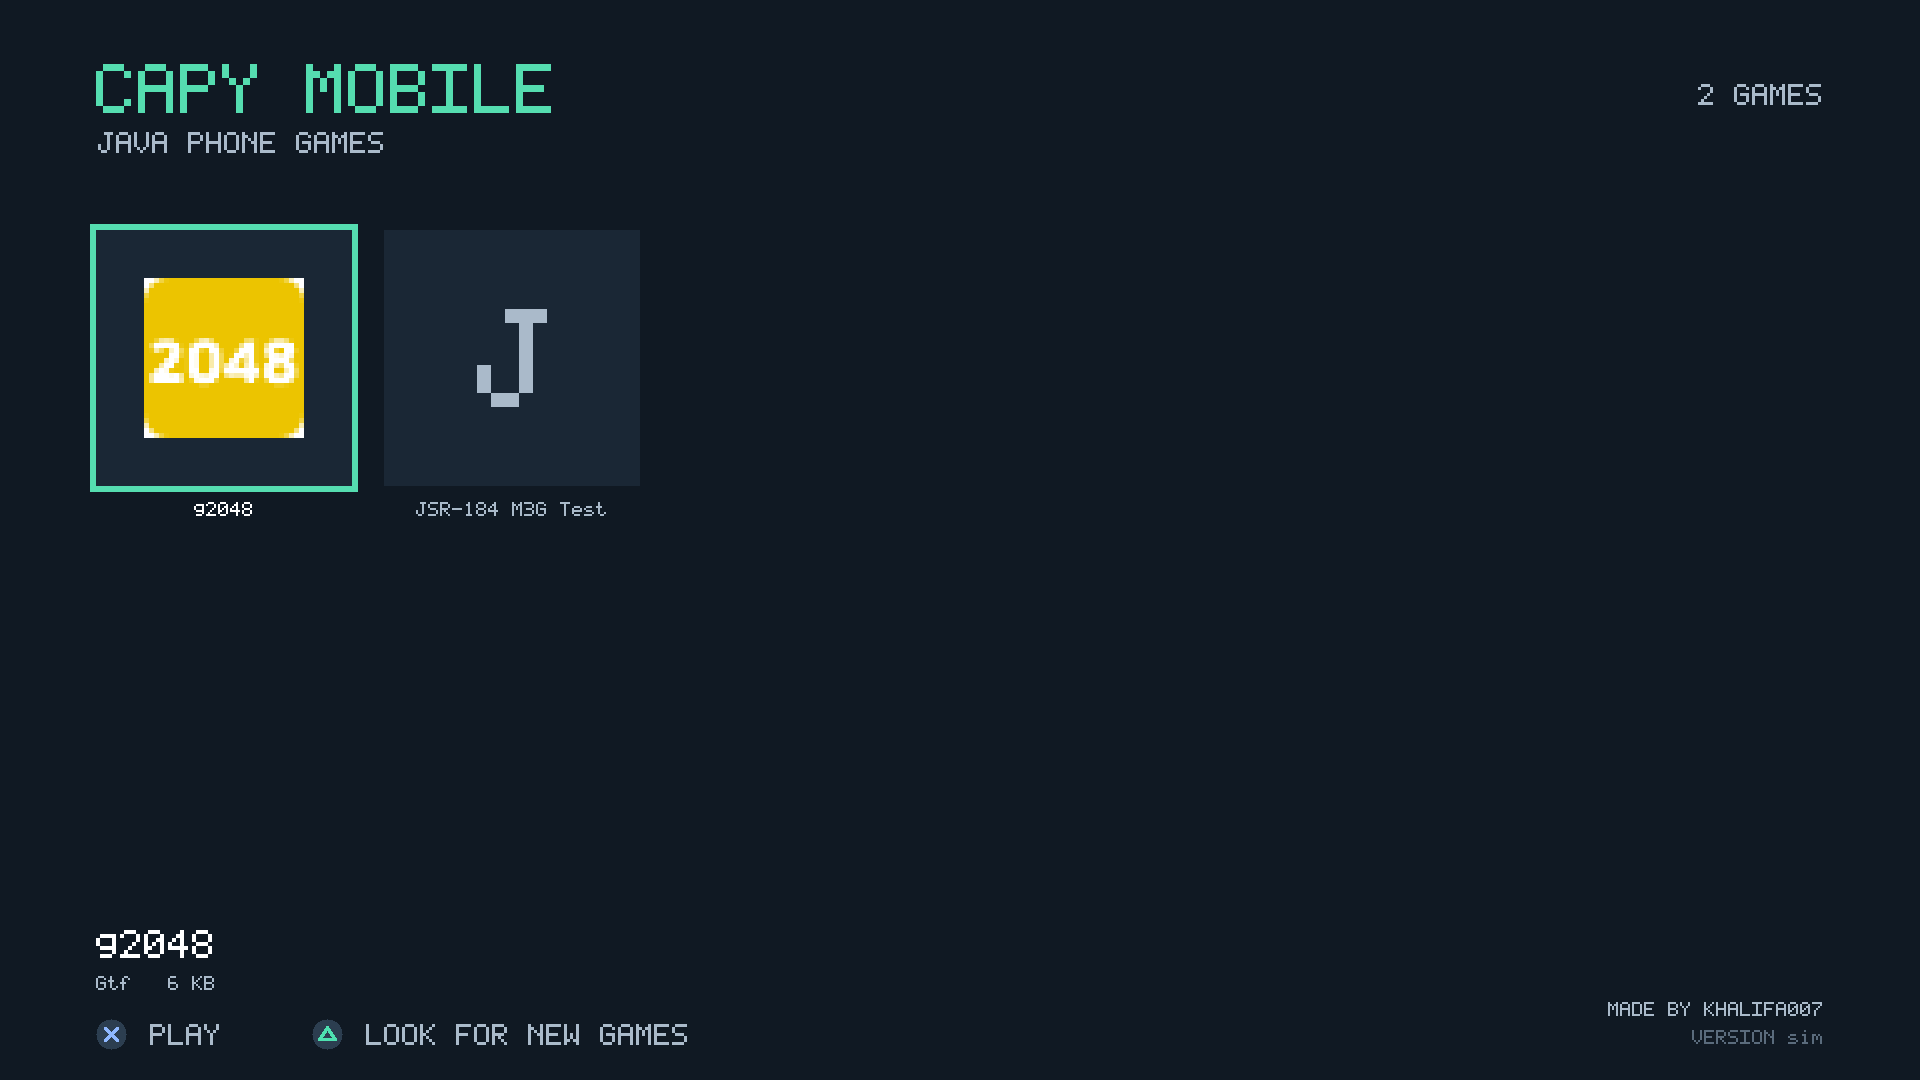
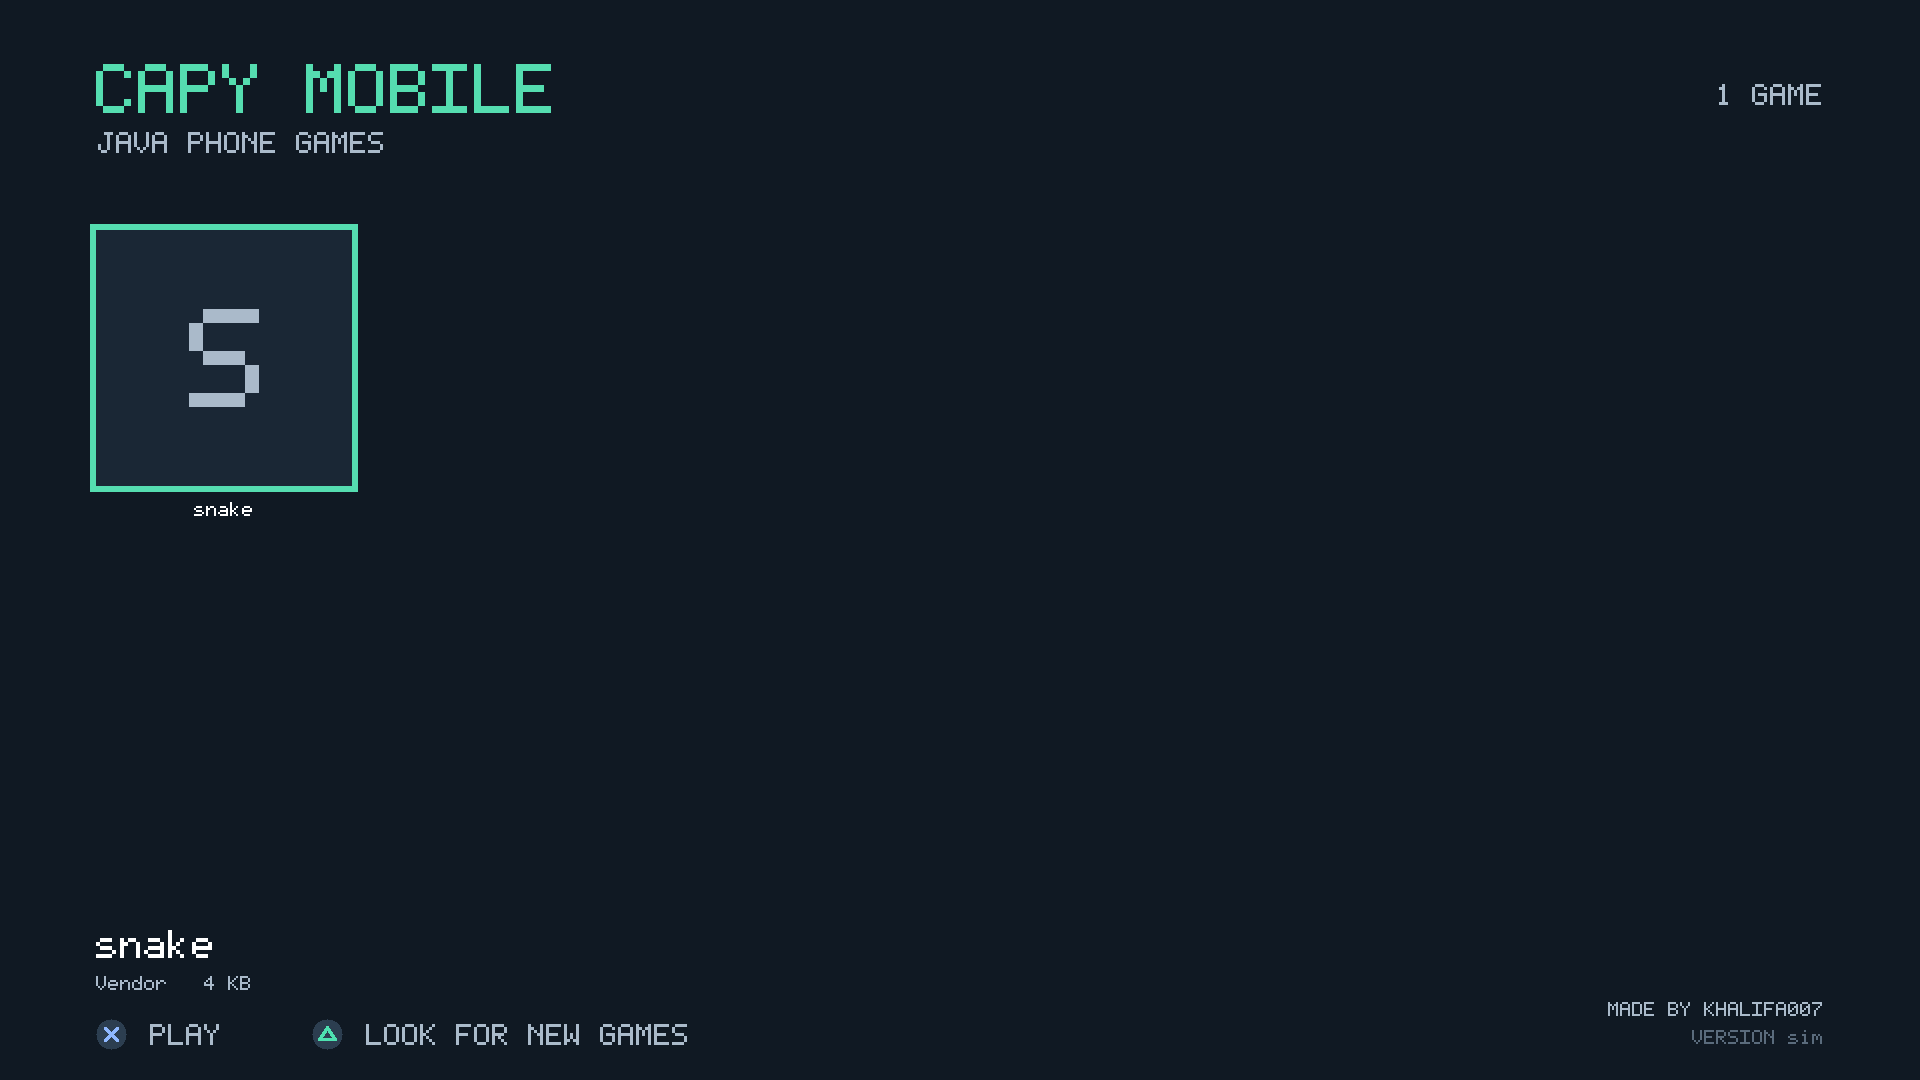
00.005.000: Snake comes with the app
The release now carries one open-source game, Anas Rin's Snake (MIT), with its licence beside it, so the list is not empty on first start. The README's pictures show it.

diff --git a/README.md b/README.md
@@ -12,7 +12,9 @@ and the DualSense standing in for the phone's keys.
 
 It is built on [noJMe](https://github.com/corax89/noJMe), an open-source J2ME emulator written in C,
 and on [ps5-native-app-boilerplate](https://github.com/blackbearreloaded/ps5-native-app-boilerplate).
-No Java is installed on the console and no games are included.
+No Java is installed on the console. One small open-source game comes with it, so there is something
+to play at once: [Snake](https://github.com/anasrar/java-me-snake) by Anas Rin (MIT), the game in the
+pictures above. Everything else you add yourself.
 
 ## Status
 
@@ -28,7 +30,8 @@ Early, but it plays. It was developed and tried on one PS5 on system software 13
 
 - A jailbroken PS5 with **ShadowMount+** (it registers the app from `/data/homebrew`) and an **FTP
   server** such as ftpsrv. It was made on a console running kstuff and ShadowMount+ 1.7.
-- The games themselves, as `.jar` files. Only use games you have the right to use.
+- Games, as `.jar` files. Only use games you have the right to use. Open-source ones exist: for
+  example the 100 small games of [j2me-100-games](https://github.com/agneay/j2me-100-games) (MIT).
 
 ## Install
 
@@ -99,8 +102,8 @@ The app's own code runs on the PC with a scripted controller and saves screens a
 it is checked without a console:
 
 ```
-mkdir -p /tmp/home/games && cp "$(bash engine.sh)/tests/g2048.jar" /tmp/home/games/
-PORTED=1 bash tests/run.sh /tmp/shots /tmp/home "w20 s:list X w240 s:game R w30 D w30 s:moved OPT w10 s:menu"
+mkdir -p /tmp/home/games && cp games/snake.jar /tmp/home/games/
+PORTED=1 bash tests/run.sh /tmp/shots /tmp/home "w20 s:list X w120 R w40 D w40 s:game OPT w10 s:menu"
 ```
 
 `tests/sim.c` explains the script words. `PORTED=1` builds the engine exactly as the console gets it.
@@ -130,6 +133,7 @@ It stands on other people's work:
 - [ps5-payload-sdk](https://github.com/ps5-payload-dev/sdk) by John Törnblom and contributors.
 - Mihawk's [PS5_RetroArch](https://github.com/mihawk-99/PS5_RetroArch) and its platform notes, and
   Swordpdf's [PS5SX2](https://github.com/Swordpdf/PS5SX2), for showing what a PS5 title can and cannot do.
+- Anas Rin's [Snake](https://github.com/anasrar/java-me-snake), the game that comes with the app.
 - Doug Lea's allocator and Sean Barrett's stb_image_write (see [THIRD_PARTY.md](THIRD_PARTY.md)).
 
 ## Licence

diff --git a/THIRD_PARTY.md b/THIRD_PARTY.md
@@ -5,6 +5,7 @@
 | File | What | Licence |
 |---|---|---|
[2 lines of base64/hex data omitted]
 | `third_party/stb_image_write.h` | stb_image_write 1.16 by Sean Barrett. Only the PC simulator uses it, to save PNGs. | Public domain or MIT |
 
 ## Fetched when building, not included
